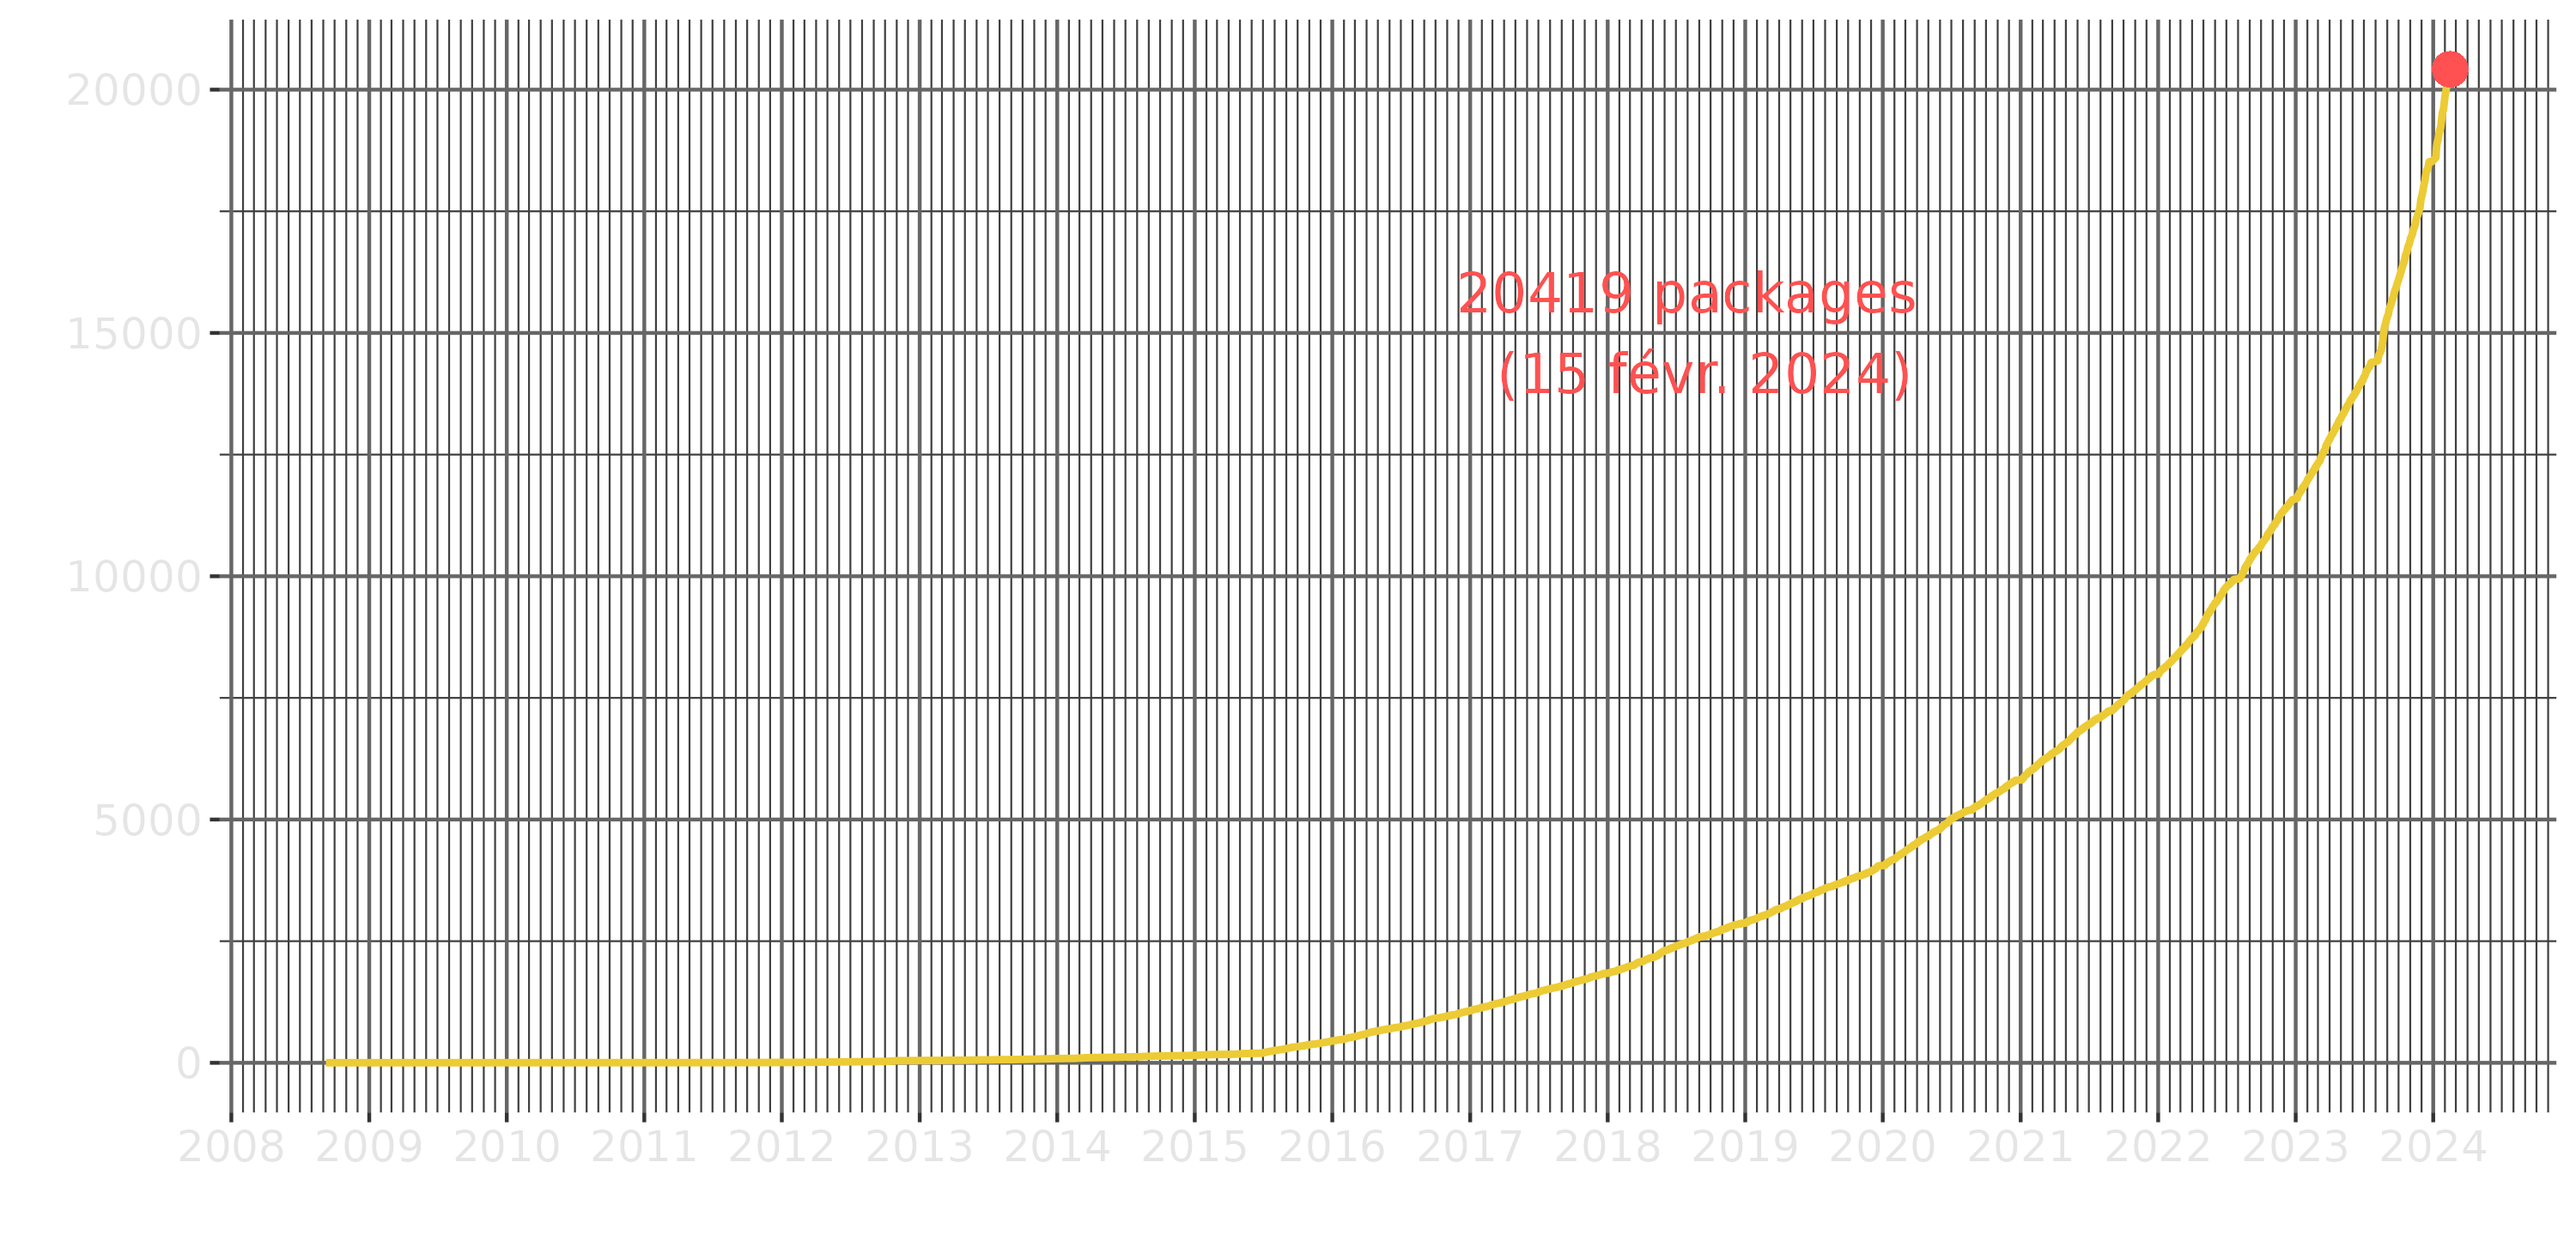
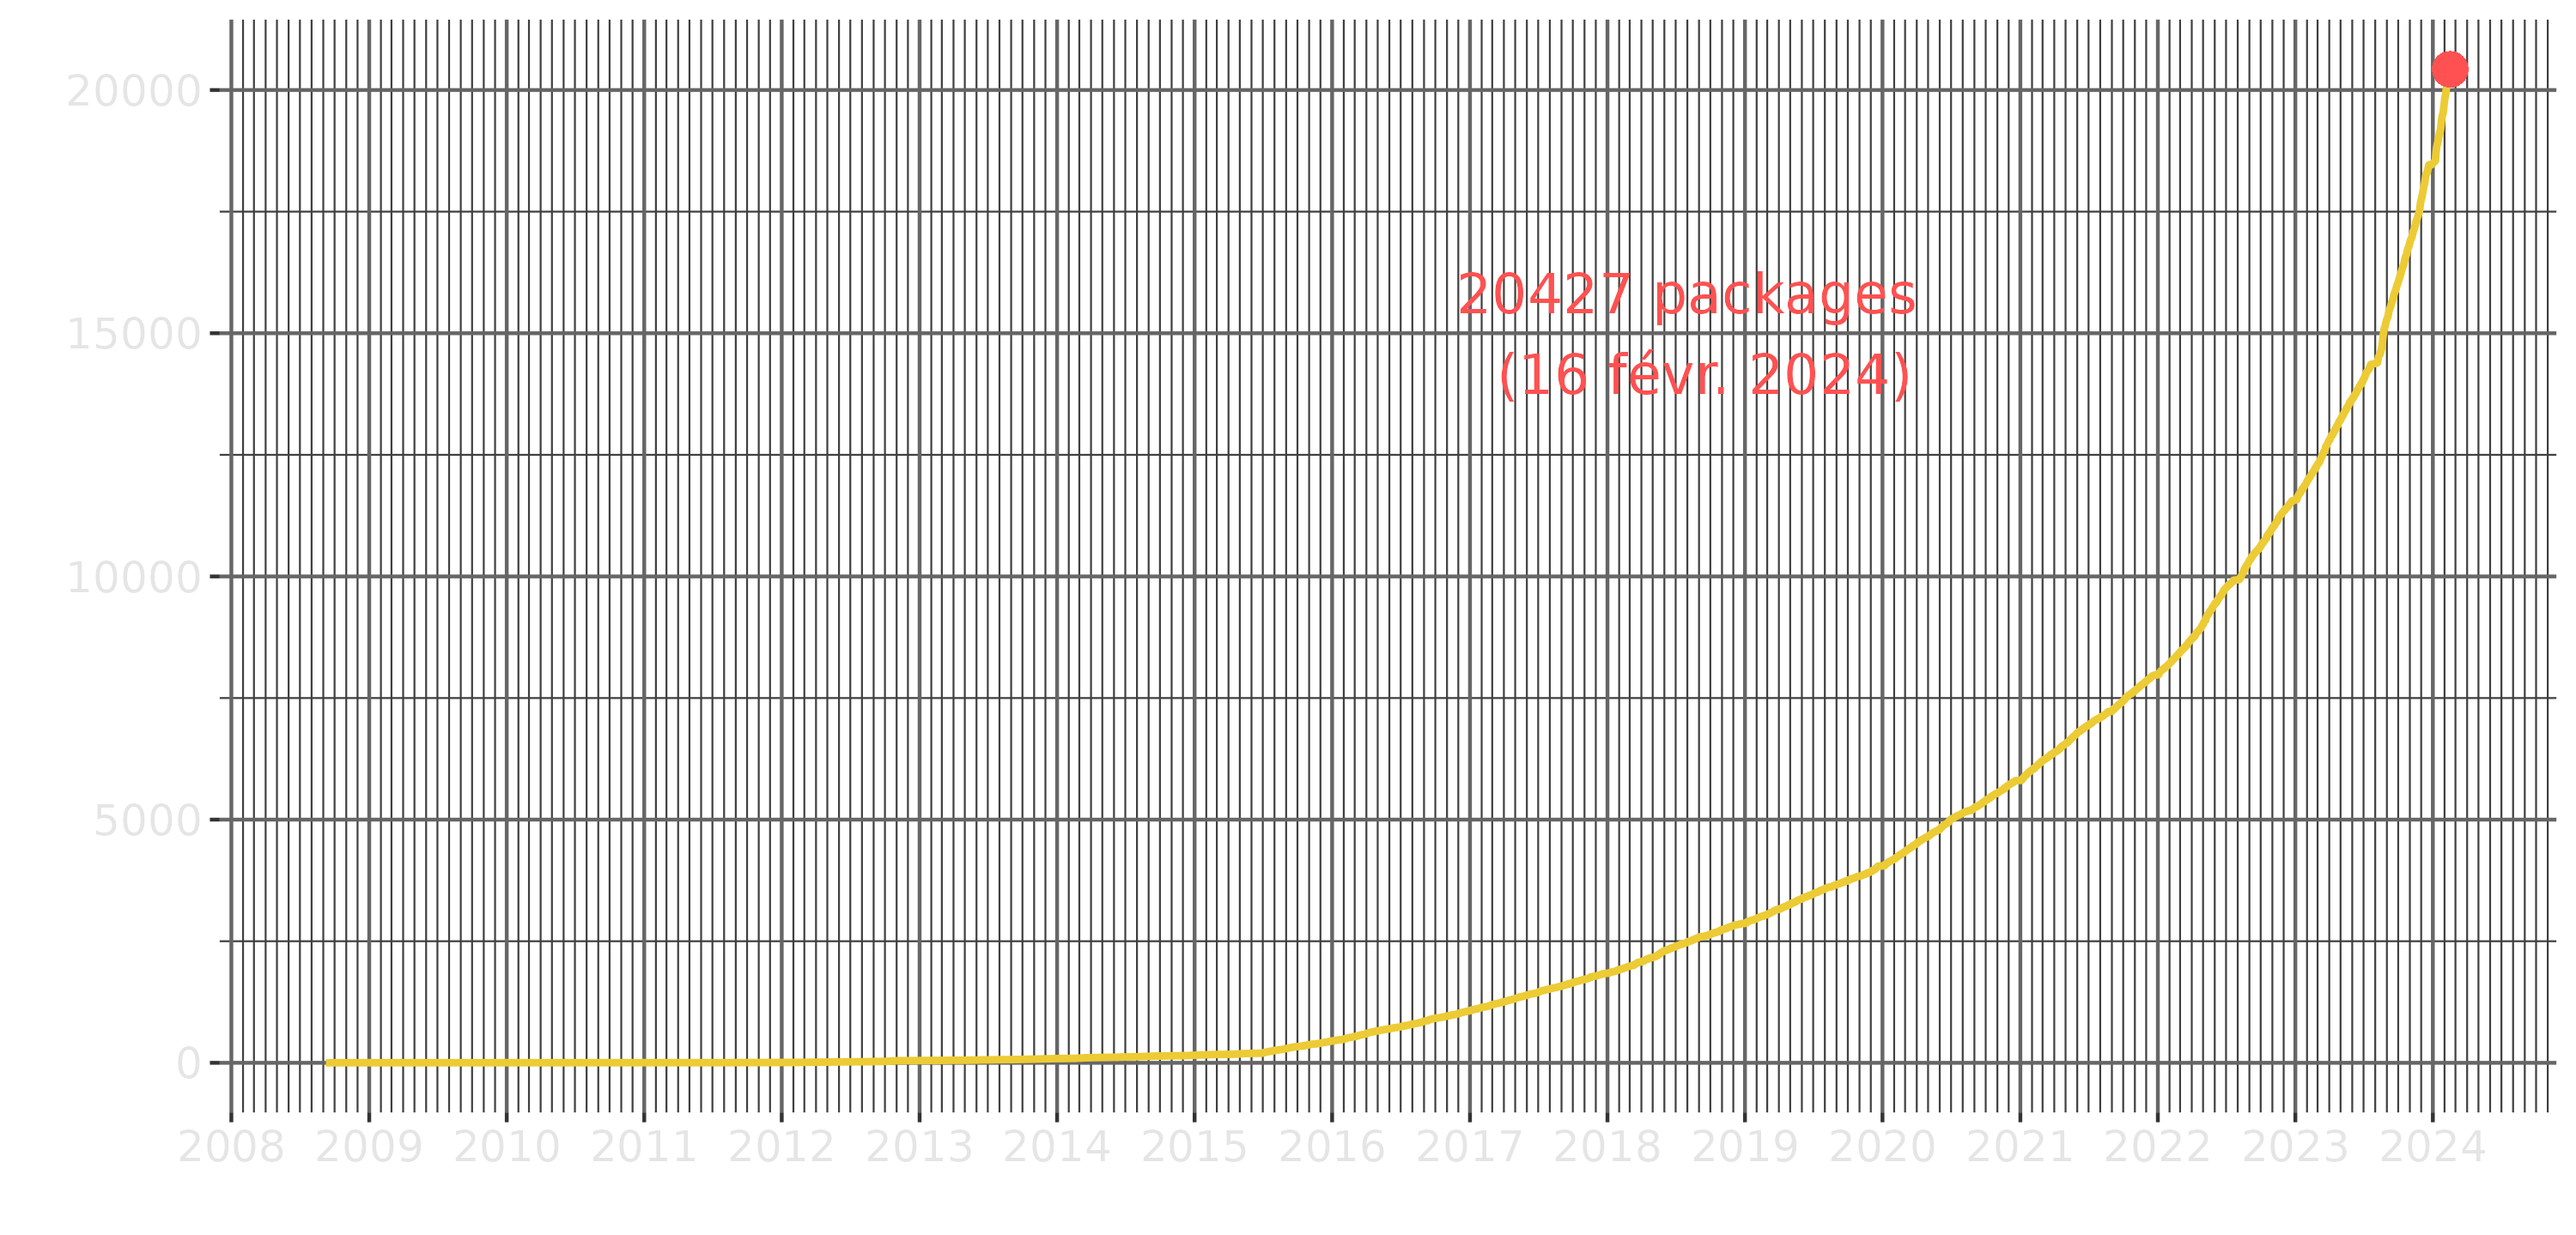
update

Changed region(s): [[0.372, 0.0306, 0.992, 0.8867]]

diff --git a/README.html b/README.html
@@ -9,10 +9,9 @@
 <meta http-equiv="X-UA-Compatible" content="IE=EDGE" />
 
 
-<meta name="author" content="Hugues Pecout (CNRS, UMR Géographie-Cités)" />
 
 
-<title>MASTER Géomatique - USSEIN</title>
+<title>README</title>
 
 <script>// Pandoc 2.9 adds attributes on both header and div. We remove the former (to
 // be compatible with the behavior of Pandoc < 2.8).
@@ -349,15 +348,26 @@ display: none;
 
 
 
-<h1 class="title toc-ignore">MASTER Géomatique - USSEIN</h1>
-<h3 class="subtitle">Semaine du 19 au 23 février 2024</h3>
-<h4 class="author">Hugues Pecout (CNRS, UMR Géographie-Cités)</h4>
 
 </div>
 
 
+<div id="introduction-au-langage-r" class="section level1">
+<h1>Introduction au langage R</h1>
+<div id="pour-la-manipulation-lanalyse-et-la-représentation-de-données-géographiques" class="section level2">
+<h2>Pour la manipulation, l’analyse et la représentation de données
+géographiques</h2>
+<div id="master-géomatique-université-du-sine-saloum-el-hâdj-ibrahima-niass" class="section level3">
+<h3>Master Géomatique, Université du Sine Saloum El-Hâdj Ibrahima
+NIASS</h3>
+<div id="hugues-pecout-cnrs-umr-géographie-cités" class="section level5">
+<h5>Hugues Pecout (CNRS, UMR Géographie-Cités)</h5>
+<p></br></p>
 <p><br />
 </p>
+</div>
+</div>
+</div>
 <div id="programme-et-matériel" class="section level2">
 <h2>Programme et matériel</h2>
 <p><br />
@@ -452,6 +462,7 @@ l’information Géographique avec R : <a href="https://elementr.netlify.app/" t
 Github : <a href="https://github.com/HuguesPecout" target="_blank">https://github.com/HuguesPecout</a><br />
 GitLab : <a href="https://gitlab.huma-num.fr/hpecout" target="_blank">https://gitlab.huma-num.fr/hpecout</a>
 </center>
+</div>
 </div>
 </div>
 

diff --git a/index.html b/index.html
@@ -1918,7 +1918,7 @@ Il fait partie du mouvement du logiciel libre (lancé par Richard Stallman en 19
 </ul>
 </div>
 <div class="big3">
-<p><strong>638 fonctions supplémentaires sont également mises à disposition</strong> via 5 autres packages pré-installés (grid, splines, stats4, tcltk, tools), mais pas automatiquement chargés. (*le 2024-02-15)</p>
+<p><strong>638 fonctions supplémentaires sont également mises à disposition</strong> via 5 autres packages pré-installés (grid, splines, stats4, tcltk, tools), mais pas automatiquement chargés. (*le 2024-02-16)</p>
 </div>
 <p><br>
 </p>
@@ -1951,7 +1951,7 @@ Il fait partie du mouvement du logiciel libre (lancé par Richard Stallman en 19
 <p><br>
 </p>
 <div class="bigquat">
-<p>20419 packages sont disponibles sur le système officiel de stockage des packages : le <a href="https://cran.r-project.org/web/packages/available_packages_by_name.html" target="_blank"><strong><em>Comprehensive R Archive Network</em></strong></a>.</p>
+<p>20427 packages sont disponibles sur le système officiel de stockage des packages : le <a href="https://cran.r-project.org/web/packages/available_packages_by_name.html" target="_blank"><strong><em>Comprehensive R Archive Network</em></strong></a>.</p>
 </div>
 <p><br>
 </p>

diff --git a/README.md b/README.md
@@ -4,5 +4,105 @@
 
 ### Master Géomatique, Université du Sine Saloum El-Hâdj Ibrahima NIASS
 
+##### Hugues Pecout (CNRS, UMR Géographie-Cités)
 
-&rarr; Consulter le [**diaporama**](https://huguespecout.github.io/Intro_R_USSEIN/)
+</br>
+
+\
+
+
+## Programme et matériel
+
+
+\
+
+#### Lundi 19 février : **Introduction à la cartographie thématique & au logiciel Magrit** 
+
+\
+
+Rappel des fondamentaux : [https://huguespecout.github.io/Intro_carto_thematique/](https://huguespecout.github.io/Intro_carto_thematique/)
+
+Logiciel Magrit : [https://magrit.cnrs.fr/](https://magrit.cnrs.fr/)
+
+\
+\
+
+#### Du Mardi 20 au Vendredi 23 février : **Géomatique & cartographie avec R**
+
+\
+
+Supports de cours :
+
+- **Géomatique avec R** : [https://rcarto.github.io/geomatique_avec_r/](https://rcarto.github.io/geomatique_avec_r/){target="_blank"}     
+- **Cartographie avec R** : [https://rcarto.github.io/cartographie_avec_r/](https://rcarto.github.io/cartographie_avec_r/){target="_blank"}    
+
+\
+
+Packages nécessaires :
+
+    install.packages("sf")
+    install.packages("mapsf")
+    install.packages("terra")
+    install.packages("mapview")
+    install.packages("maptiles")
+    install.packages("osrm")
+    install.packages("osmdata")
+    install.packages("units")
+    install.packages("tidygeocoder")
+
+\
+
+
+Exercices :
+
+- ***Exercice 1*** - Cartographie avec mapsf : [https://github.com/HuguesPecout/GeoExo_Carto_R](https://github.com/HuguesPecout/GeoExo_Carto_R){target="_blank"}    
+- ***Exercice 2*** - Manipulation de données vectorielles :[https://github.com/HuguesPecout/GeoExo_sf_R](https://github.com/HuguesPecout/GeoExo_sf_R){target="_blank"}      
+- ***Exercice 3*** - R, OpenStreetMap et OSRM :[https://github.com/HuguesPecout/GeoExo_osm_R](https://github.com/HuguesPecout/GeoExo_osm_R){target="_blank"}    
+
+\
+\
+\
+
+
+## Ressources supplémentaires
+
+\
+
+#### Sites web :
+
+**Rzine** - Ressources diverses sur la pratique de R en SHS (et géomatique) : [https://rzine.fr/](https://rzine.fr/){target="_blank"}         
+**ElementR** - Groupe d'utilisateurs pour le traitement de l'information Géographique avec R : [https://elementr.netlify.app/](https://elementr.netlify.app/){target="_blank"} 
+
+\
+
+#### Livres :
+
+**Spatial Data Science** : [https://r-spatial.org/book/](https://r-spatial.org/book/*){target="_blank"}     
+**Geocomputation avec R** (original) : [https://r.geocompx.org/](https://r.geocompx.org/){target="_blank"}         
+**Geocomputation avec R** (traduction fr) : [https://r.geocompx.org/fr/](https://r.geocompx.org/fr/){target="_blank"}         
+**Spatial Data Science with R** : [https://rspatial.org/index.html](https://rspatial.org/index.html){target="_blank"}     
+\
+
+
+#### Supports de formation :
+
+**Cartographie thématique avec Magrit** : [https://github.com/magrit-formations](https://github.com/magrit-formations){target="_blank"}        
+**Représentation graphique avec R**  : [https://huguespecout.github.io/SO_MATE_2023/](https://huguespecout.github.io/SO_MATE_2023/){target="_blank"}        
+**Document computationnel avec R** : [https://elementr.gitpages.huma-num.fr/session_notebook/programmation_lettree/](https://elementr.gitpages.huma-num.fr/session_notebook/programmation_lettree/){target="_blank"}        
+
+
+
+\
+\
+\
+\
+\
+
+\
+
+<center>
+Github : [https://github.com/HuguesPecout](https://github.com/HuguesPecout){target="_blank"}               
+GitLab : [https://gitlab.huma-num.fr/hpecout](https://gitlab.huma-num.fr/hpecout){target="_blank"}    
+</center>
+
+
